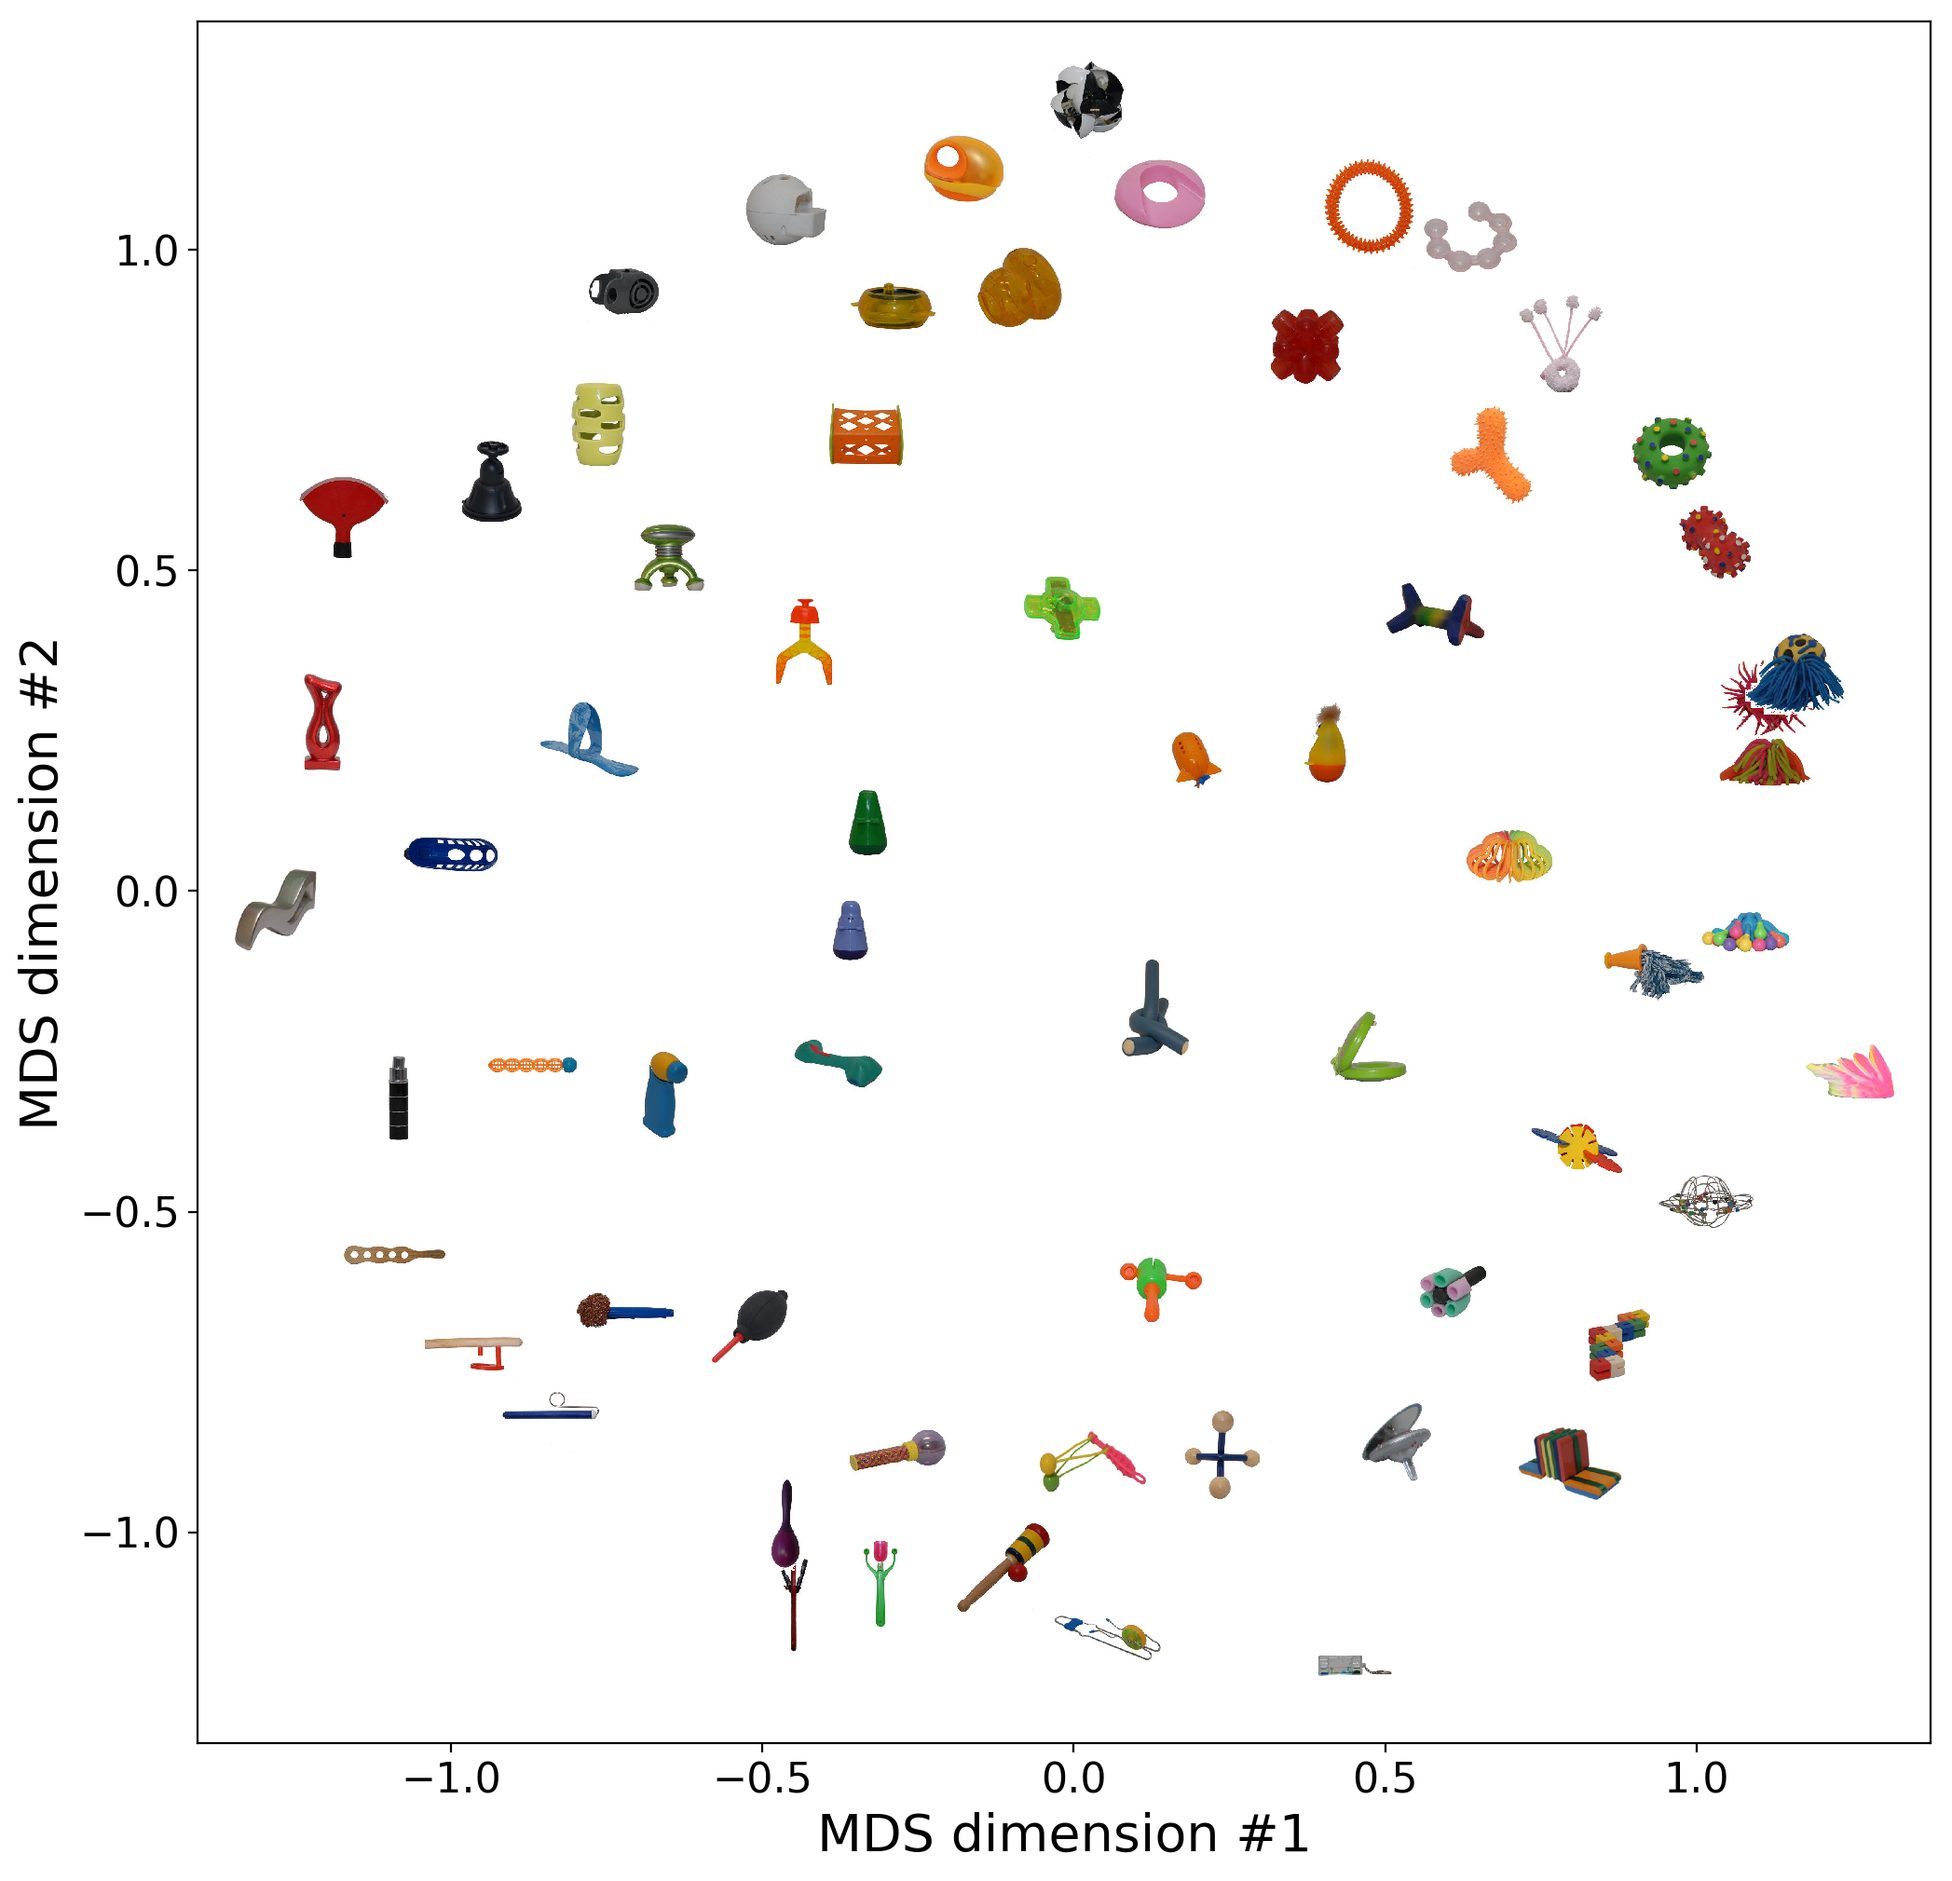
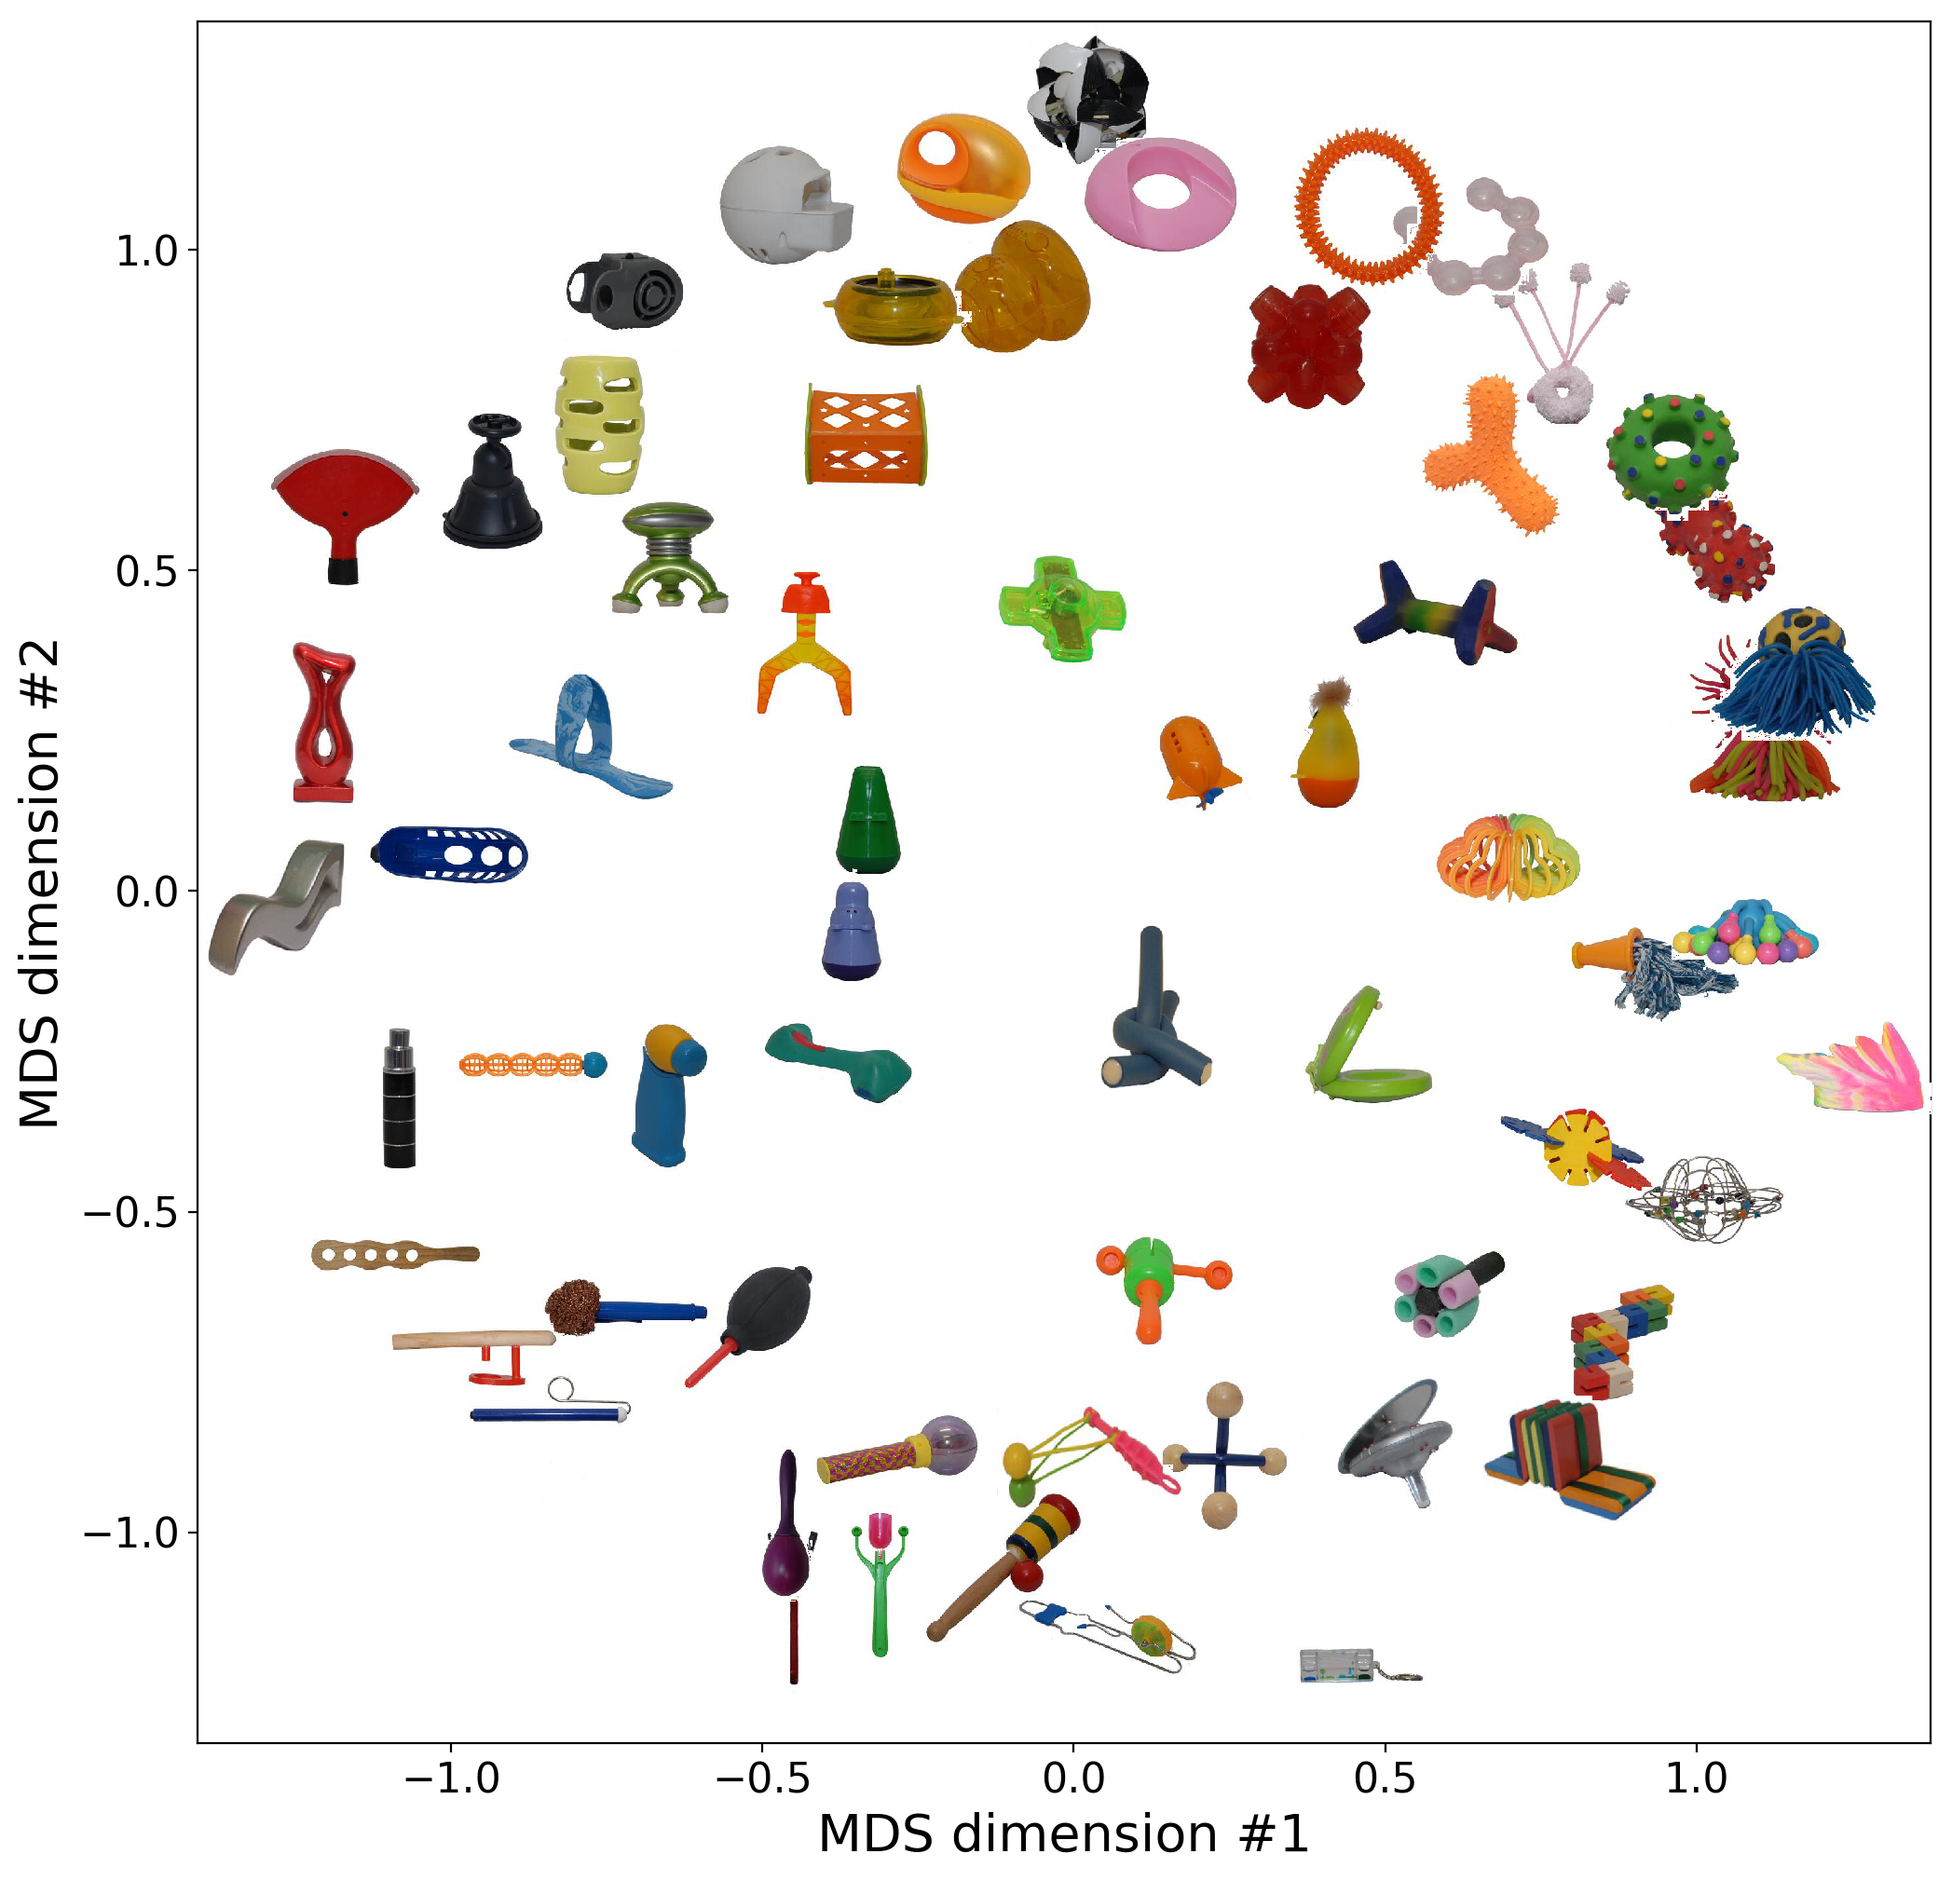
bugfix for visualize_spaces; generated 2D plots for paper

diff --git a/code/mds/similarity_spaces/visualize_spaces.py b/code/mds/similarity_spaces/visualize_spaces.py
@@ -18,7 +18,7 @@ parser = argparse.ArgumentParser(description=' Visualizing MDS spaces')
 parser.add_argument('vector_folder', help = 'path to the folder containing the vectors')
 parser.add_argument('output_folder', help = 'path to the folder where the visualizations should be stored')
 parser.add_argument('-i', '--image_folder', help = 'the folder containing images of the items', default = None)
-parser.add_argument('-z', '--zoom', type = int, help = 'the factor to which the images are scaled', default = 0.15)
+parser.add_argument('-z', '--zoom', type = float, help = 'the factor to which the images are scaled', default = 0.15)
 parser.add_argument('-m', '--max', type = int, help = 'size of the largest space to be visualized', default = 10)
 args = parser.parse_args()
 
